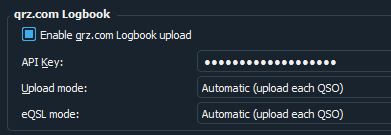
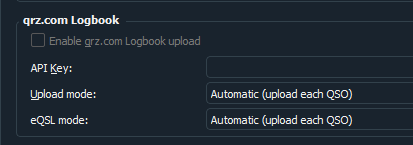
docs(v1.2.0): CHANGELOG entry and screenshots for v1.2.0 release
Headline features:
  - qrz.com Logbook upload + download + persistent retry queue
  - Auto-CQ after QSO (toggle, sustained window, kick-timer fallback)
  - NTP time-sync badge re-surfaced for upgraders from v1.1.1

The CHANGELOG also documents the v1.1.3 content (19 languages +
UPDATE DATA TLS fix) because v1.1.3 was rolled back before wide
distribution, so v1.2.0 is the first public release to ship those
changes.

Screenshots under docs/screenshots/:
  - v1.2.0-qrz-settings.png         Settings -> Reporting -> qrz.com
  - v1.2.0-qrz-download-menu.png    File -> Download log from qrz.com
  - v1.2.0-autocq-menu.png          AutoSeq -> Auto-CQ after QSO
  - v1.2.0-ntp-badge.png            NTP drift badge + resync click

diff --git a/CHANGELOG.md b/CHANGELOG.md
@@ -8,6 +8,146 @@ upstream JTDX version is preserved in internal Versions.cmake
 for code compatibility, but public releases are tagged
 `v0.1.0` → `v1.0.0` reflecting WKjTX's own delivery phases.
 
+## [v1.2.0] — 2026-04-23 — qrz.com Logbook + Auto-CQ + NTP time sync
+
+This is the first public release to ship the qrz.com Logbook
+integration and the automatic-CQ-after-QSO workflow. Since the
+v1.1.3 tag was rolled back before wide distribution, v1.2.0 also
+bundles the v1.1.3 multilingual UI and UPDATE DATA TLS fix, plus
+the v1.1.2 NTP clock-offset badge for operators upgrading directly
+from v1.1.1 or earlier.
+
+### Headline features
+
+- **qrz.com Logbook** — upload every logged QSO to your qrz.com
+  Logbook automatically (or queue for manual upload), download your
+  entire qrz.com logbook for Worked-B4 colouring in WKjTX.
+  (See Settings → Reporting → qrz.com Logbook.)
+- **Auto-CQ after QSO** — WKjTX re-arms the Tx6 CQ message and
+  re-enables TX automatically after every logged QSO, so the
+  station resumes calling CQ without manual intervention. Toggle
+  under AutoSeq → Auto-CQ after QSO (`Ctrl+Shift+Q`).
+- **NTP time-sync badge** (inherited from v1.1.2, re-surfaced for
+  v1.1.1 upgraders) — top-right menubar badge shows live system
+  clock drift against `pool.ntp.org`; one click steps the clock
+  with an elevated `Set-Date`.
+
+### Added
+
+- **qrz.com Logbook upload** (`Settings → Reporting → qrz.com
+  Logbook`). Enter your Logbook API Key (qrz.com → My Account →
+  Logbook API → API Key) and pick an upload mode:
+  - *Automatic (upload each QSO)* — every logged QSO is pushed as
+    soon as you click Log.
+  - *Manual queue only* — QSOs park in the pending queue; you
+    trigger uploads from `File → Upload pending QSOs…`.
+  Failed uploads (network error, API reject) stay in the queue with
+  the last error visible so you can retry. Queue is persisted to
+  `%LOCALAPPDATA%\WKjTX\upload_queue.json` and survives restarts.
+  (Screenshots: `docs/screenshots/v1.2.0-qrz-settings.png`.)
+- **qrz.com log download** (`File → Download log from qrz.com…`)
+  pulls your entire qrz.com Logbook into the local B4-matching
+  cache so previously-worked stations are flagged on the band in
+  any fresh install. Uses the same Logbook API Key as upload.
+  (Screenshot: `docs/screenshots/v1.2.0-qrz-download-menu.png`.)
+- **eQSL queue parity** — eQSL now shares the same manual/automatic
+  mode combo and pending-queue UI as qrz.com. Previous eQSL
+  behaviour (auto-only, no retry on failure) is preserved as the
+  default mode.
+- **Pending Uploads dialog** — inspect the queue, see per-upload
+  service / callsign / band / mode / date / attempt count / last
+  error, retry individual rows or the whole queue, delete rows.
+- **Exit prompt** — if the upload queue is non-empty at app close,
+  you're prompted *Upload now / Later / Discard*. *Later* keeps
+  the queue on disk for the next launch.
+- **Auto-CQ after QSO** toggle in the `AutoSeq` menu with a
+  first-enable risk warning (unattended-TX acknowledgement) and a
+  configurable window duration (1…999 minutes, default 30). Each
+  logged QSO inside the window extends the deadline by another
+  full duration. Clicking Halt TX is always a hard stop — the
+  window is cleared and you must re-enable Auto-CQ manually.
+  (Screenshot: `docs/screenshots/v1.2.0-autocq-menu.png`.)
+- **Auto-CQ sustained window** — while the window is active, WKjTX
+  re-arms Tx6 and re-enables TX every TX slot until the deadline
+  hits or until someone answers. The sequencer's natural
+  "no-stuck-CQ-loops" behaviour (JTDX's default) is preserved —
+  WKjTX only nudges after the slot completes.
+- **Auto-CQ secondary triggers** — arming now works even when the
+  operator never opens the log dialog (edge-detect: 73 TX
+  finished) and even when they log before the final 73 is actually
+  transmitted (fallback kick-timer fires 3.5 s after acceptQSO2 if
+  the sequencer gate stalls).
+- **UDP commands `SwitchProfile` (type 52)** and **`EnableTx`
+  (type 53)** in the outgoing message protocol, so companion tools
+  (WKjTX Stream Deck plugin, external keyers) can switch radio
+  profiles and toggle Enable TX remotely over UDP. Both commands
+  are idempotent — re-sending the same state is a no-op.
+- **19 languages** shipped out of the box (carried forward from
+  v1.1.3): ca_ES, da_DK, en_US, es_ES, et_EE, fr_FR, hr_HR,
+  hu_HU, it_IT, ja_JP, lv_LV, nl_NL, pl_PL, pt_BR, pt_PT, ru_RU,
+  sv_SE, zh_CN, zh_HK. Embedded as Qt resources; user-supplied
+  `wkjtx_<locale>.qm` / `jtdx_<locale>.qm` in `bin\translations\`
+  still take priority over the bundled resource.
+- **NTP time-sync badge** (from v1.1.2) in the top-right menubar
+  corner. Green below 100 ms drift, amber 100–500 ms, red 500+ ms
+  or unreachable. Click to trigger an elevated `Set-Date` resync.
+  (Screenshot: `docs/screenshots/v1.2.0-ntp-badge.png`.)
+
+### Fixed
+
+- **UPDATE DATA TLS initialization** (carried forward from v1.1.3)
+  now works out of the box on portable installs. `run.bat` sets
+  `OPENSSL_CONF`, `SSL_CERT_FILE`, `SSL_CERT_DIR` to the MSYS2-
+  sourced OpenSSL 3 config + CA bundle before launching the exe.
+- **Auto-CQ no longer pre-empts the final 73 TX.** The pending
+  arm waits for `m_nlasttx == 5/6` and `!m_transmitting` before
+  clicking Tx6, so the 73 that closes the QSO is never truncated.
+- **Auto-CQ re-arms even when the sequencer parks TX after 73.**
+  The arm path re-clicks Enable TX if JTDX's auto-seq shut it off
+  because nobody was calling back.
+- **Auto-CQ arms for operators who log before the 73 is sent.** A
+  fallback kick-timer (3.5 s after `acceptQSO2`) force-arms
+  Tx6+Enable TX when the natural sequencer path never advances
+  `m_nlasttx` past 4. Diagnostics in `ALL.TXT` distinguish
+  `via sequencer` vs `via kick-timer` arming.
+- **Help menu `WKjTX Web site` link** now opens
+  `https://iu2vwk.com/wkjtx/` instead of the inherited JTDX URL.
+- **Help menu `Local User Guide` entries** bypass the upstream
+  `DisplayManual` versioned-HTML fallback that returned 404s
+  against WKjTX's own documentation layout.
+- **`wkjtx/` subdirectory build** — `Configuration.hpp` include in
+  the wkjtx module now uses the correct `../` relative prefix, so
+  incremental builds after a clean `CMakeCache.txt` don't abort on
+  missing header.
+- **Incremental build `OMNIRIG_EXE: unbound variable`** (carried
+  forward from v1.1.3). `scripts/build-wkjtx.sh` now defaults the
+  variable before the CMake configure step so both cold and
+  incremental builds pick up the OmniRig install path.
+
+### Known issues
+
+- **Radio VFO tune not followed** on some rigs (reported on v1.1.2
+  pre-rollback, unverified on v1.2.0). If you tune your radio's
+  VFO while WKjTX is running, outgoing TX may use the cached
+  frequency instead of the new one. Workaround: switch profile or
+  restart WKjTX after tuning. Root cause investigation pending —
+  Hamlib polling cadence vs profile-switch regression.
+- **Unsigned binary**. Windows SmartScreen shows *Windows
+  protected your PC*; click *More info → Run anyway*. Authenticode
+  signing is still deferred.
+
+### Notes for upgraders
+
+- Users on **v1.1.2**: this release brings qrz.com, Auto-CQ, the
+  19 bundled languages, the UPDATE DATA TLS fix, and the UDP
+  protocol extensions on top of everything you already have.
+- Users on **v1.1.3** (never publicly released): the multilingual
+  UI and the UPDATE DATA TLS fix already in your tree are
+  preserved; everything new is the qrz.com suite, Auto-CQ, and the
+  UDP 52 / 53 commands.
+- Users on **v1.1.0 / v1.1.1**: you additionally gain the NTP
+  time-sync badge and Set-Date resync from v1.1.2.
+
 ## [v1.1.3] — 2026-04-22 — Multilingual UI + UPDATE DATA TLS fix
 
 ### Added
